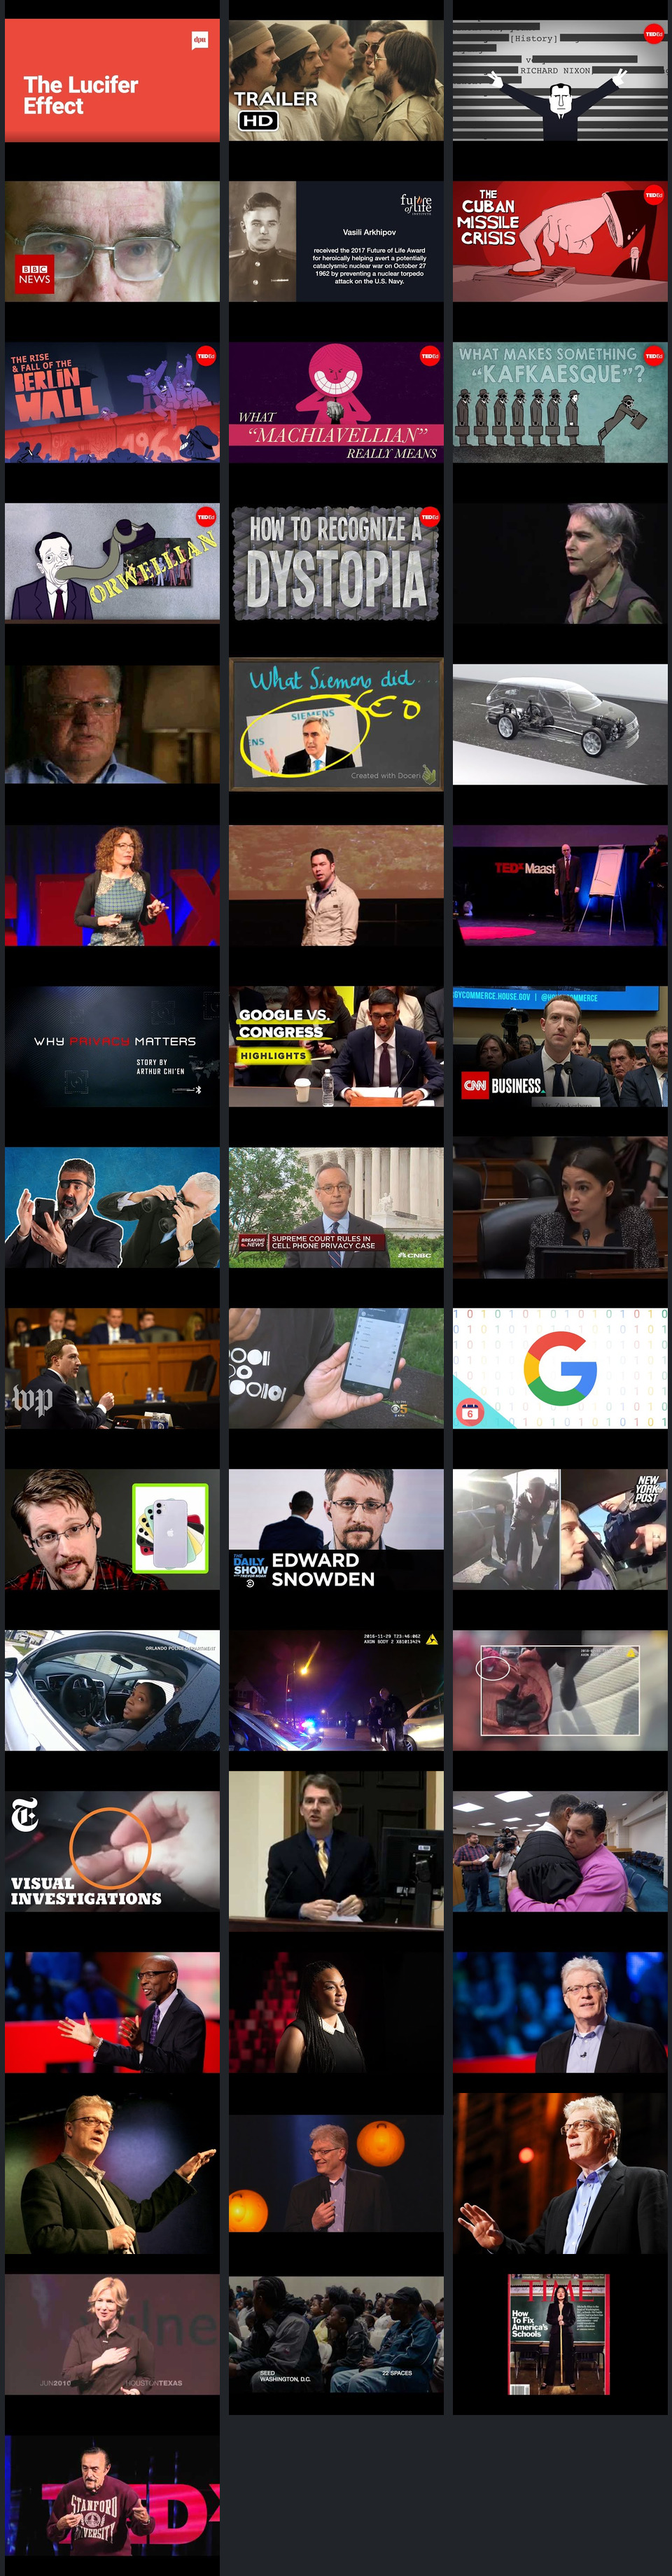
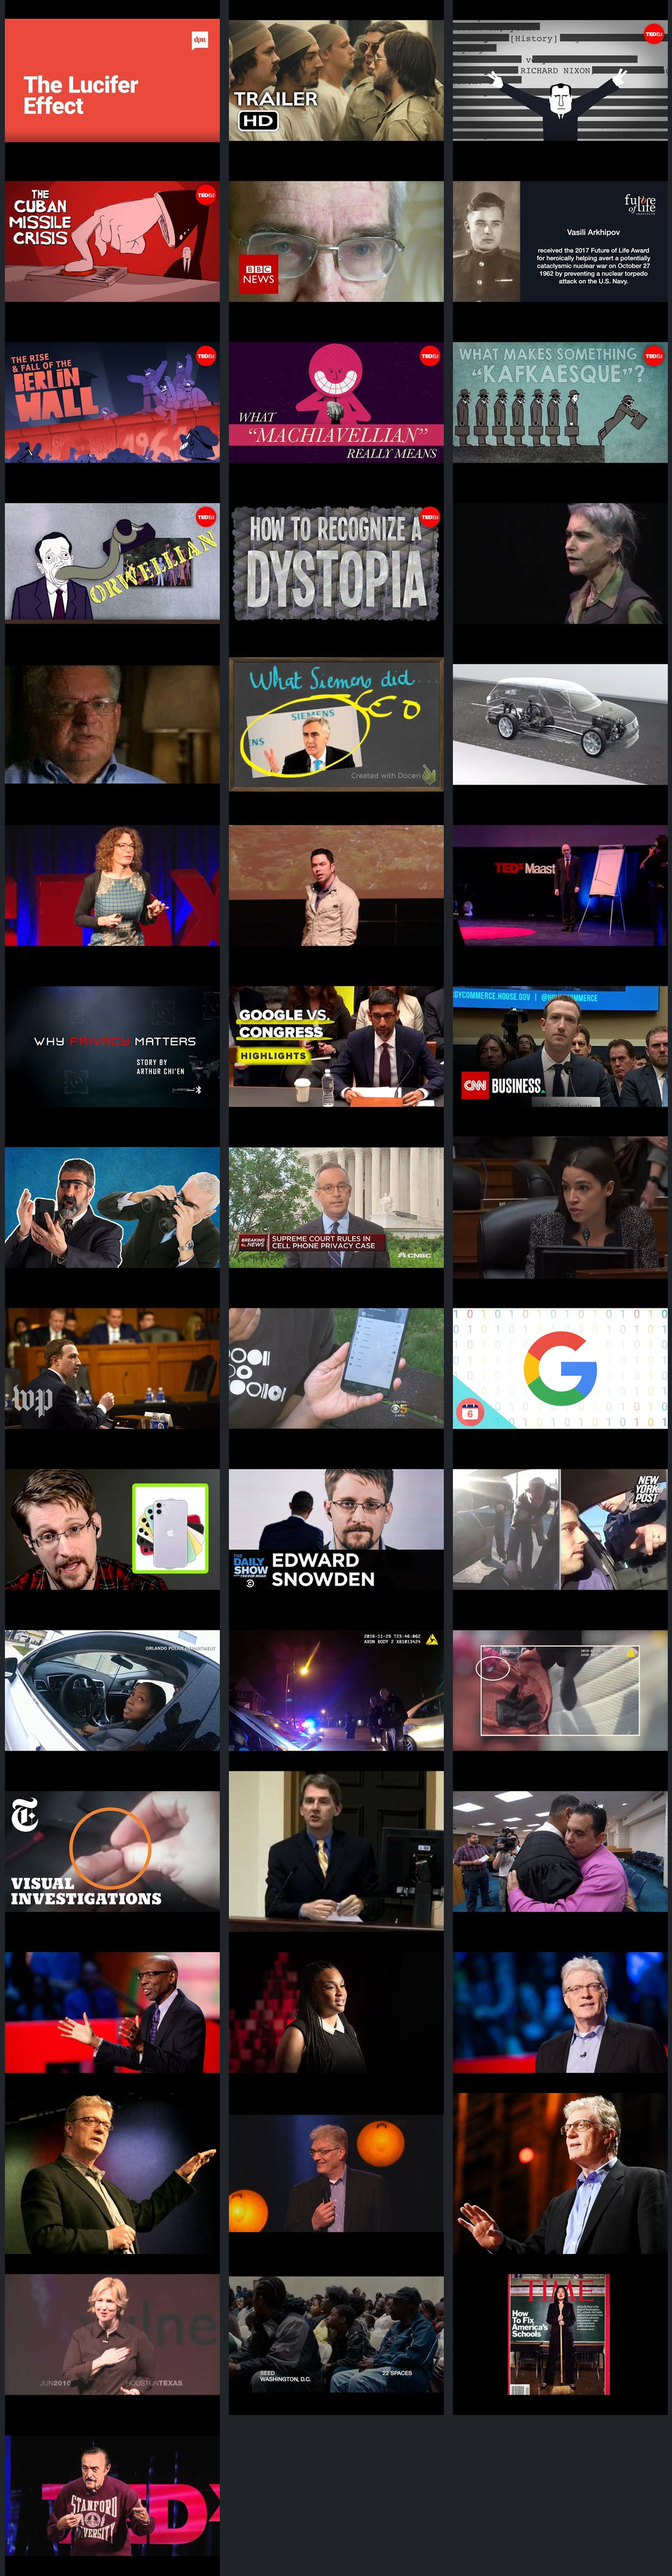
New Revisions

Changed region(s): [[0.0, 0.0625, 1.0, 0.125]]

diff --git a/westland-warrior-the-sociologist/cache/bootstrap.html b/westland-warrior-the-sociologist/cache/bootstrap.html
@@ -20,6 +20,13 @@
   </div>
 </div>
 <div class="card card-section bg-dark text-warning shadow">
+  <div class="card-header">The history of the Cuban Missile Crisis - Matthew A. Jordan</div>
+  <a href="https://www.youtube.com/watch?v=bwWW3sbk4EU" title="The history of the Cuban Missile Crisis - Matthew A. Jordan" alt="The history of the Cuban Missile Crisis - Matthew A. Jordan"><img src="/image/yid-bwWW3sbk4EU.jpg" alt="The history of the Cuban Missile Crisis - Matthew A. Jordan" class="card-img"></a>
+  <div class="card-body">
+    <a href="https://www.youtube.com/watch?v=bwWW3sbk4EU" title="The history of the Cuban Missile Crisis - Matthew A. Jordan" class="btn btn-warning">Play Video</a>
+  </div>
+</div>
+<div class="card card-section bg-dark text-warning shadow">
   <div class="card-header">Stanislav Petrov</div>
   <a href="https://www.youtube.com/watch?v=L7EmLf4Xlq0" title="Stanislav Petrov" alt="Stanislav Petrov"><img src="/image/yid-L7EmLf4Xlq0.jpg" alt="Stanislav Petrov" class="card-img"></a>
   <div class="card-body">
@@ -31,13 +38,6 @@
   <a href="https://www.youtube.com/watch?v=iLokpu4ixQE" title="Vasili Arkhipov" alt="Vasili Arkhipov"><img src="/image/yid-iLokpu4ixQE.jpg" alt="Vasili Arkhipov" class="card-img"></a>
   <div class="card-body">
     <a href="https://www.youtube.com/watch?v=iLokpu4ixQE" title="Vasili Arkhipov" class="btn btn-warning">Play Video</a>
-  </div>
-</div>
-<div class="card card-section bg-dark text-warning shadow">
-  <div class="card-header">The history of the Cuban Missile Crisis - Matthew A. Jordan</div>
-  <a href="https://www.youtube.com/watch?v=bwWW3sbk4EU" title="The history of the Cuban Missile Crisis - Matthew A. Jordan" alt="The history of the Cuban Missile Crisis - Matthew A. Jordan"><img src="/image/yid-bwWW3sbk4EU.jpg" alt="The history of the Cuban Missile Crisis - Matthew A. Jordan" class="card-img"></a>
-  <div class="card-body">
-    <a href="https://www.youtube.com/watch?v=bwWW3sbk4EU" title="The history of the Cuban Missile Crisis - Matthew A. Jordan" class="btn btn-warning">Play Video</a>
   </div>
 </div>
 <div class="card card-section bg-dark text-warning shadow">

diff --git a/westland-warrior-the-sociologist/cache/html.html b/westland-warrior-the-sociologist/cache/html.html
@@ -36,6 +36,18 @@
 </div>
 <div class="section yt">
   <header>
+    <h2>The history of the Cuban Missile Crisis - Matthew A. Jordan</h2>
+  </header>
+  <figure>
+    <a href="https://www.youtube.com/watch?v=bwWW3sbk4EU" class="no-tufte-underline" title="The history of the Cuban Missile Crisis - Matthew A. Jordan">
+      <img src="/image/yid-bwWW3sbk4EU.jpg" alt="The history of the Cuban Missile Crisis - Matthew A. Jordan">
+    </a>
+    <figcaption>The history of the Cuban Missile Crisis - Matthew A. Jordan</figcaption>
+  </figure>
+  <p><a href="https://www.youtube.com/watch?v=bwWW3sbk4EU" title="The history of the Cuban Missile Crisis - Matthew A. Jordan">Play Video</a></p>
+</div>
+<div class="section yt">
+  <header>
     <h2>Stanislav Petrov</h2>
   </header>
   <figure>
@@ -57,18 +69,6 @@
     <figcaption>Vasili Arkhipov</figcaption>
   </figure>
   <p><a href="https://www.youtube.com/watch?v=iLokpu4ixQE" title="Vasili Arkhipov">Play Video</a></p>
-</div>
-<div class="section yt">
-  <header>
-    <h2>The history of the Cuban Missile Crisis - Matthew A. Jordan</h2>
-  </header>
-  <figure>
-    <a href="https://www.youtube.com/watch?v=bwWW3sbk4EU" class="no-tufte-underline" title="The history of the Cuban Missile Crisis - Matthew A. Jordan">
-      <img src="/image/yid-bwWW3sbk4EU.jpg" alt="The history of the Cuban Missile Crisis - Matthew A. Jordan">
-    </a>
-    <figcaption>The history of the Cuban Missile Crisis - Matthew A. Jordan</figcaption>
-  </figure>
-  <p><a href="https://www.youtube.com/watch?v=bwWW3sbk4EU" title="The history of the Cuban Missile Crisis - Matthew A. Jordan">Play Video</a></p>
 </div>
 <div class="section yt">
   <header>

diff --git a/westland-warrior-the-sociologist/cache/print.html b/westland-warrior-the-sociologist/cache/print.html
@@ -8,13 +8,13 @@
   <span>History vs. Richard Nixon - Alex Gendler<sup>[3]</sup></span>
 </div>
 <div class="section yt avoid-break-inside" style="padding-bottom: 2rem;">
-  <span>Stanislav Petrov<sup>[4]</sup></span>
+  <span>The history of the Cuban Missile Crisis - Matthew A. Jordan<sup>[4]</sup></span>
 </div>
 <div class="section yt avoid-break-inside" style="padding-bottom: 2rem;">
-  <span>Vasili Arkhipov<sup>[5]</sup></span>
+  <span>Stanislav Petrov<sup>[5]</sup></span>
 </div>
 <div class="section yt avoid-break-inside" style="padding-bottom: 2rem;">
-  <span>The history of the Cuban Missile Crisis - Matthew A. Jordan<sup>[6]</sup></span>
+  <span>Vasili Arkhipov<sup>[6]</sup></span>
 </div>
 <div class="section yt avoid-break-inside" style="padding-bottom: 2rem;">
   <span>The rise and fall of the Berlin Wall - Konrad H. Jarausch<sup>[7]</sup></span>
@@ -142,9 +142,9 @@
   <div>[1]: https://www.youtube.com/watch?v=sTX-XGbPFHE</div>
   <div>[2]: https://www.youtube.com/watch?v=3XN2X72jrFk</div>
   <div>[3]: https://www.youtube.com/watch?v=MX_HYL6-0Co</div>
-  <div>[4]: https://www.youtube.com/watch?v=L7EmLf4Xlq0</div>
-  <div>[5]: https://www.youtube.com/watch?v=iLokpu4ixQE</div>
-  <div>[6]: https://www.youtube.com/watch?v=bwWW3sbk4EU</div>
+  <div>[4]: https://www.youtube.com/watch?v=bwWW3sbk4EU</div>
+  <div>[5]: https://www.youtube.com/watch?v=L7EmLf4Xlq0</div>
+  <div>[6]: https://www.youtube.com/watch?v=iLokpu4ixQE</div>
   <div>[7]: https://www.youtube.com/watch?v=A9fQPzZ1-hg</div>
   <div>[8]: https://www.youtube.com/watch?v=fUlGtrHCGzs</div>
   <div>[9]: https://www.youtube.com/watch?v=wkPR4Rcf4ww</div>
